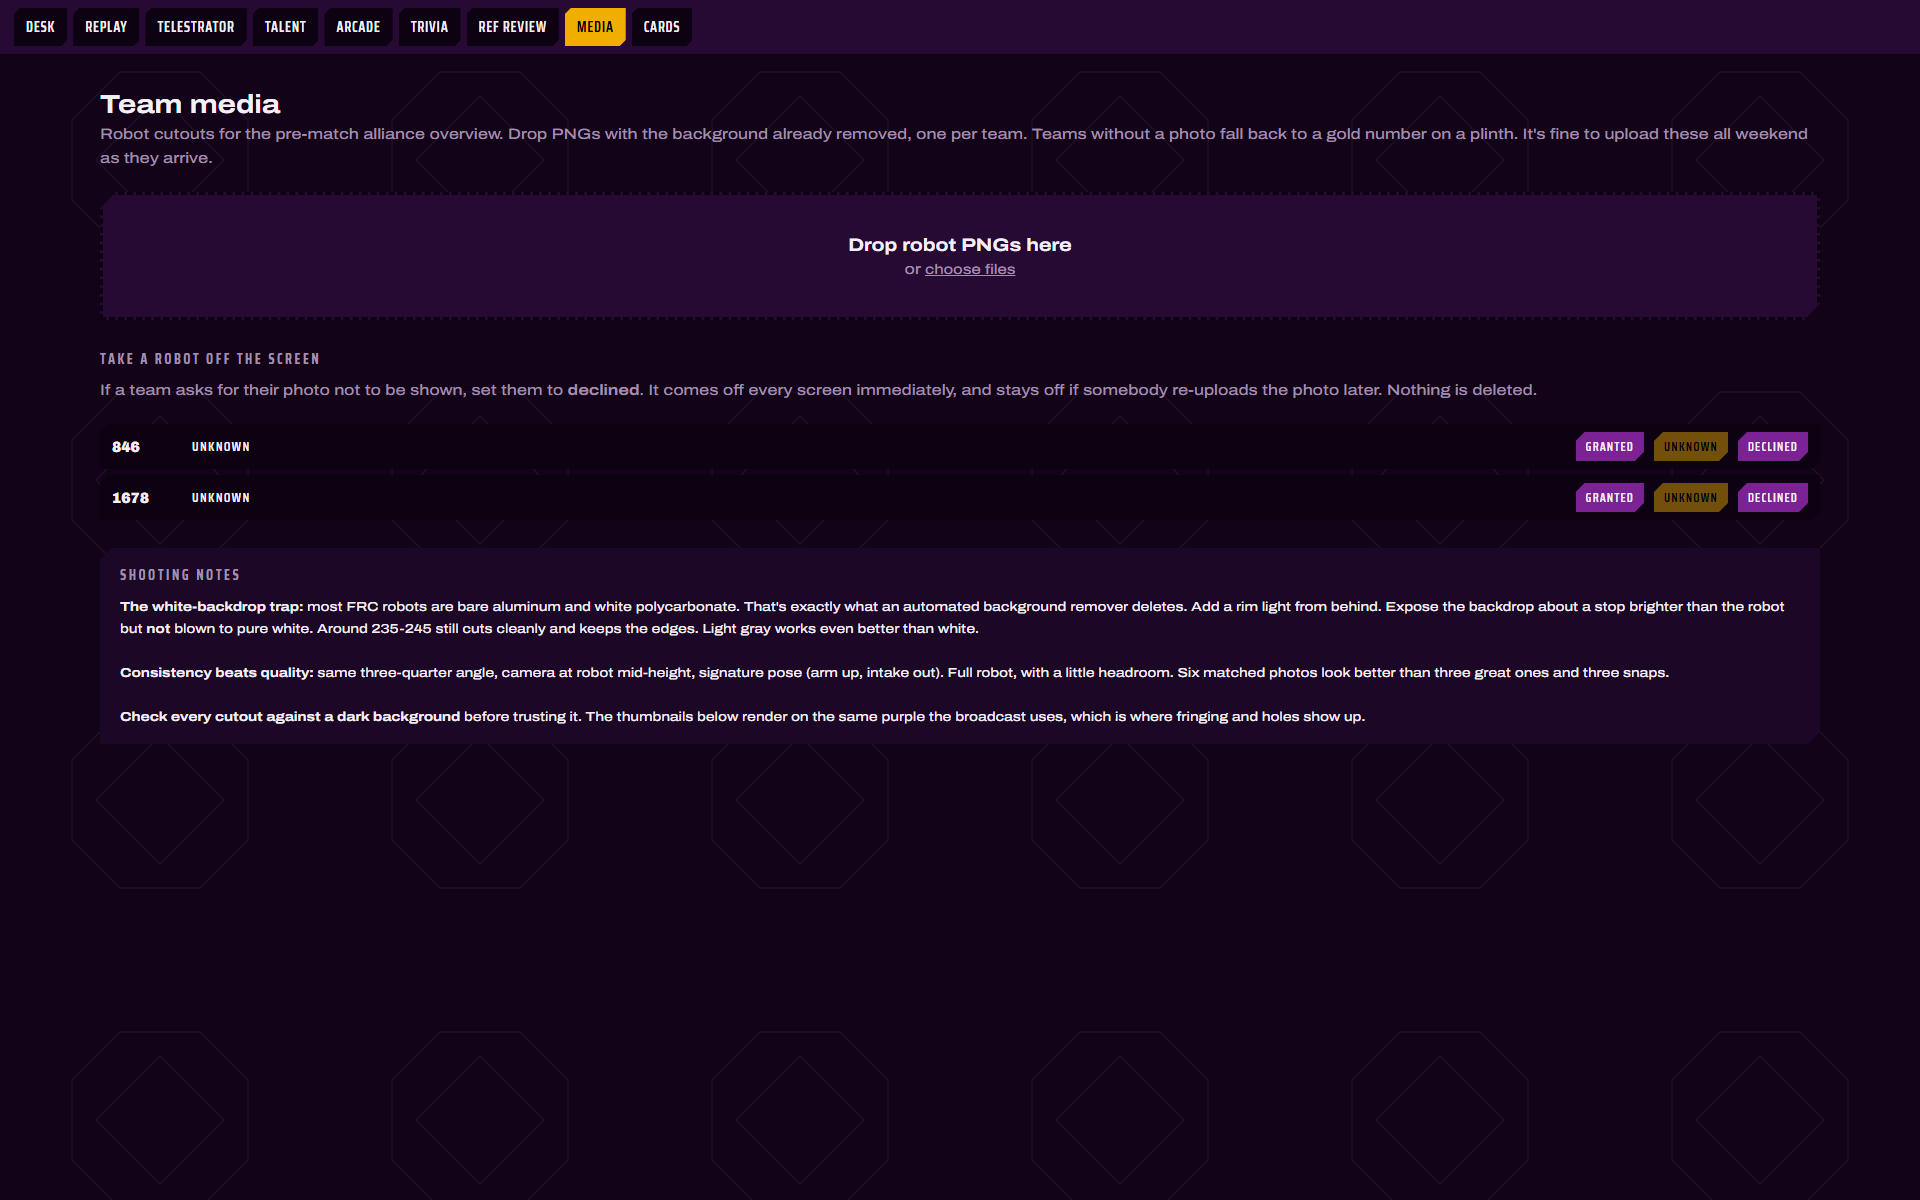
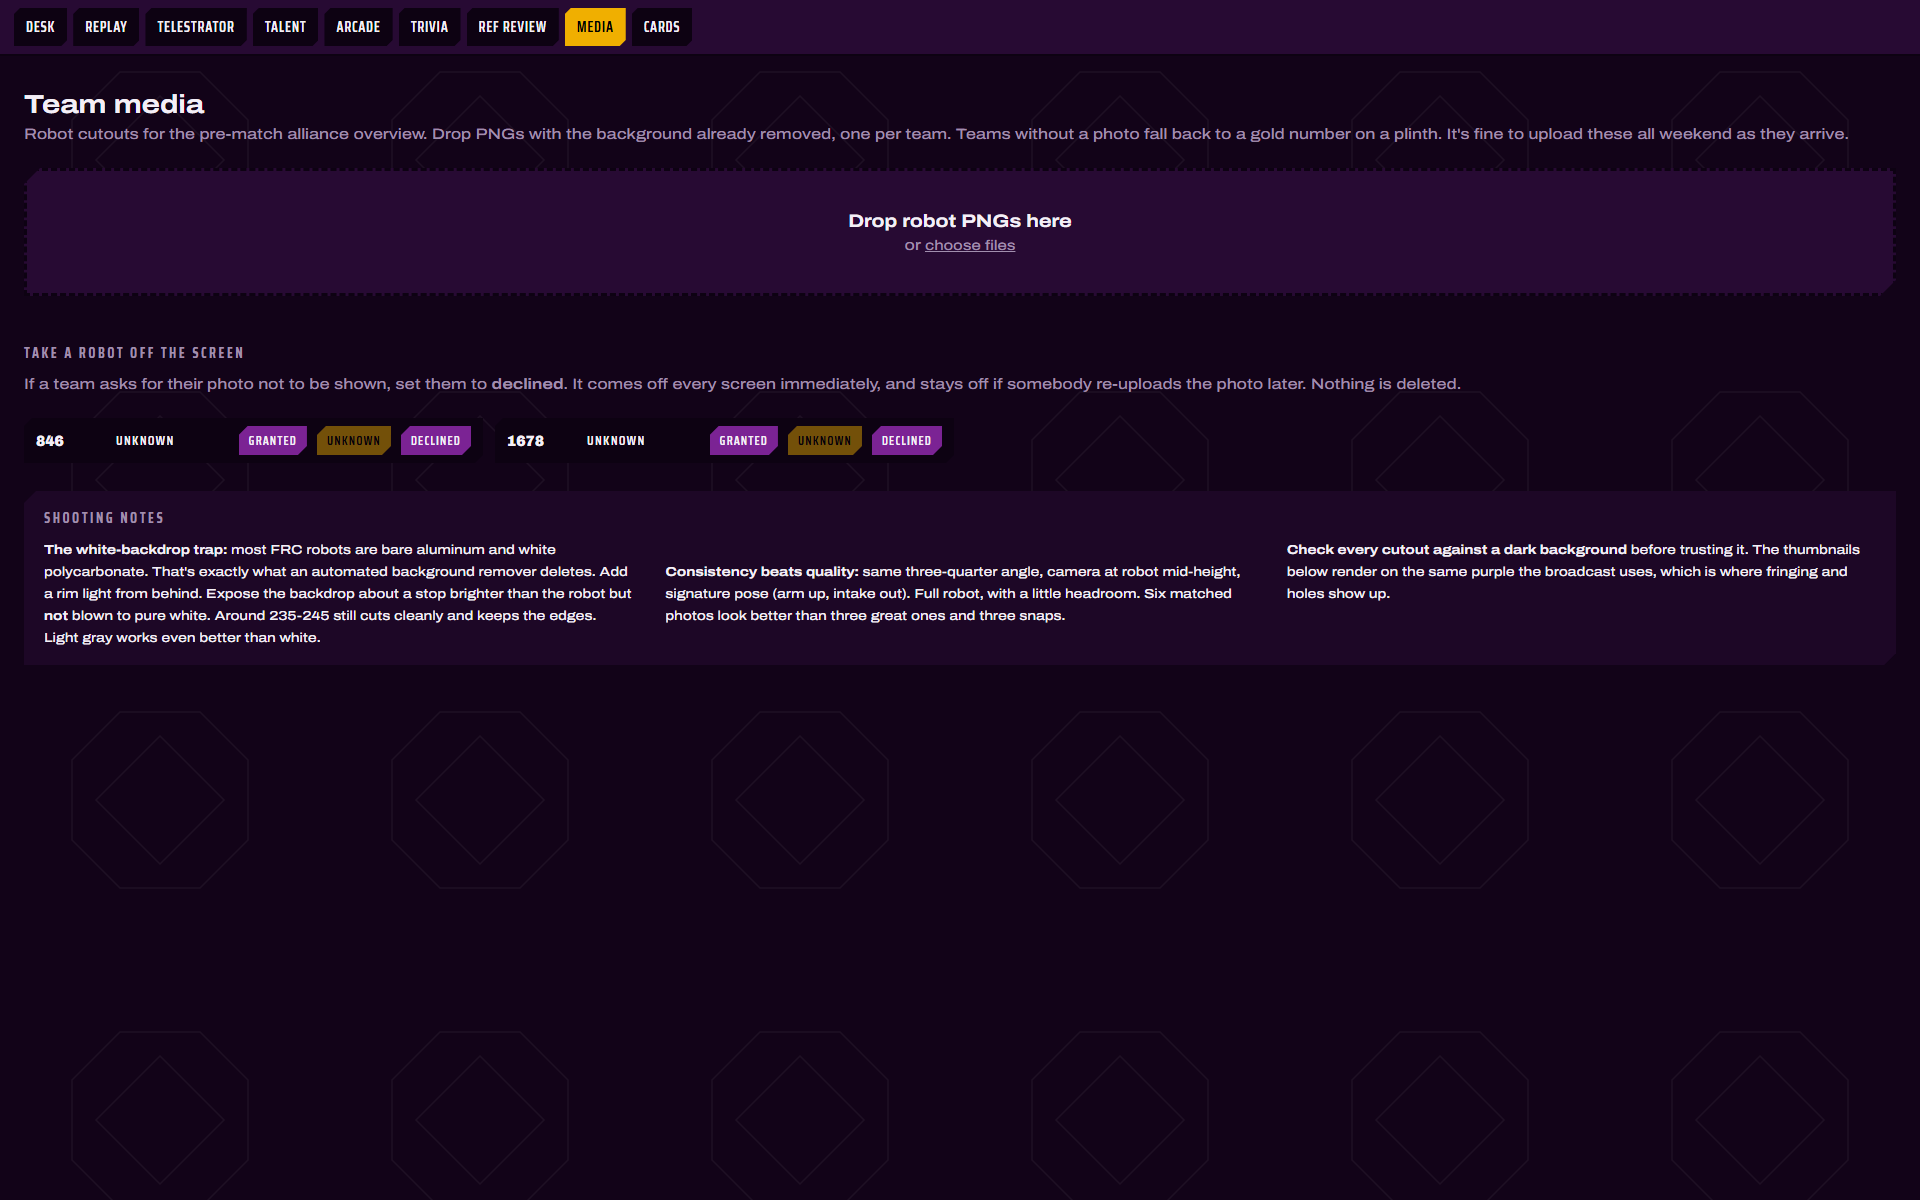
No monitor left with dead space: the index and every capped console go fluid
The landing page was one 860px column on any monitor. Its cards now tile
into as many 540px-minimum columns as the screen has, edge to edge.

The consoles that still carried width caps each get the treatment their
layout actually supports: trivia host flows its sections into 460px
multicol like the desk; arcade the same but at 620px, because five sections
across 460px columns left a fourth column standing empty on a 2400 monitor;
house audio splits its two sections half-and-half (not auto-fit — the
full-width bus plate occupies every repeated track, so empty tracks never
collapse and the sections pinned to minimum width); team media tiles its
upload queue and consent rows and pours the shooting notes into text
columns; head-referee review puts the flagged-moments list beside the
viewer so the ref looks and picks without scrolling; post-match cards caps
its square preview by monitor HEIGHT instead of width so the page can go
fluid without growing a preview taller than the screen; talent widens.

The phone and audience pages keep their narrow columns on purpose.

Verified by screenshot at 2400x1600 on all seven changed pages. 385 tests,
33 previews re-rendered.

Changed region(s): [[0.0, 0.0617, 1.0, 0.6167]]

diff --git a/surfaces/media/index.html b/surfaces/media/index.html
@@ -8,7 +8,7 @@
 <link rel="stylesheet" href="/shared/fonts.css">
 <style>
 body { font-size: var(--font-ui-body); }
-.wrap { max-width: 1720px; margin: 0 auto; padding: 20px 24px 64px; }
+.wrap { margin: 0 auto; padding: 20px 24px 64px; }
 h1 { font-size: 26px; font-variation-settings: "wdth" 118; margin: 0 0 4px; }
 p.sub { color: var(--text-dim); margin: 0 0 22px; line-height: 1.6; }
 
@@ -19,9 +19,10 @@ p.sub { color: var(--text-dim); margin: 0 0 22px; line-height: 1.6; }
 #drop b { display: block; font-size: 18px; margin-bottom: 6px; }
 #drop span { color: var(--text-dim); }
 
-.queue { margin-top: 18px; }
+.queue { margin-top: 18px; display: grid;
+  grid-template-columns: repeat(auto-fill, minmax(min(560px, 100%), 1fr)); gap: 8px 14px; }
 .item { display: grid; grid-template-columns: 96px 1fr auto; gap: 14px; align-items: center;
-  background: var(--surface-raised); padding: 12px 16px; margin-bottom: 8px;
+  background: var(--surface-raised); padding: 12px 16px;
   clip-path: var(--chamfer); --ch: 10px; }
 /* Preview against the purple the graphic actually uses. White fringing and
    punched-through polycarb are invisible on white and glaring on purple. */
@@ -45,14 +46,19 @@ input:focus { outline: none; border-color: var(--accent); }
   overflow: hidden; clip-path: inset(50%); white-space: nowrap; border: 0; }
 #drop:has(.vh:focus-visible) { outline: 3px solid var(--focus-ring); outline-offset: -8px; }
 .tips { margin-top: 28px; padding: 16px 20px; background: var(--surface);
-  clip-path: var(--chamfer); --ch: 12px; font-size: 13px; line-height: 1.7; }
+  clip-path: var(--chamfer); --ch: 12px; font-size: 13px; line-height: 1.7;
+  /* Multicol text: full-width shooting notes would be 300-character lines. */
+  column-width: 560px; column-gap: 32px; }
 .tips h2 { font-family: var(--font-cond); font-weight: 700; font-size: 14px;
-  letter-spacing: .18em; text-transform: uppercase; color: var(--text-dim); margin: 0 0 8px; }
+  letter-spacing: .18em; text-transform: uppercase; color: var(--text-dim); margin: 0 0 8px;
+  column-span: all; }
 .tips b { color: var(--text); }
 .consent { margin-top: 28px; }
 .consent h2 { font-family: var(--font-cond); font-weight: 700; font-size: 14px;
   letter-spacing: .18em; text-transform: uppercase; color: var(--text-dim); margin: 0 0 8px; }
-.crow { display: flex; align-items: center; gap: 10px; padding: 8px 12px; margin-bottom: 6px;
+#consentList { display: grid;
+  grid-template-columns: repeat(auto-fill, minmax(min(380px, 100%), 1fr)); gap: 6px 12px; }
+.crow { display: flex; align-items: center; gap: 10px; padding: 8px 12px;
   background: var(--surface-sunken); clip-path: var(--chamfer); --ch: 8px; }
 .crow b { font-family: var(--font-num); font-weight: 900; min-width: 70px; }
 .cstate { font-family: var(--font-cond); letter-spacing: .1em; text-transform: uppercase;

diff --git a/surfaces/cards/index.html b/surfaces/cards/index.html
@@ -8,7 +8,8 @@
 <link rel="stylesheet" href="/shared/fonts.css">
 <style>
 body { font-size: var(--font-ui-body); }
-.wrap { max-width: 1000px; margin: 0 auto; padding: 18px 22px 60px; }
+.wrap { margin: 0 auto; padding: 18px 22px 60px; }
+@media (max-width: 860px) { .cols { grid-template-columns: 1fr !important; } }
 header { display: flex; align-items: baseline; gap: 14px; margin-bottom: 16px; }
 h1 { font-size: 24px; font-variation-settings: "wdth" 118; margin: 0; }
 .hint { color: var(--text-dim); font-size: 14px; line-height: 1.6; }
@@ -16,14 +17,17 @@ h1 { font-size: 24px; font-variation-settings: "wdth" 118; margin: 0; }
 .dot { width: 10px; height: 10px; clip-path: var(--chamfer); --ch: 3px; background: var(--st-bad); display: inline-block; }
 .dot[data-up="true"] { background: var(--st-ok); }
 
-.cols { display: grid; grid-template-columns: 1fr 320px; gap: 18px; align-items: start; }
+.cols { display: grid; grid-template-columns: minmax(0, 2fr) minmax(320px, 1fr); gap: 18px; align-items: start; }
 section { background: var(--surface-raised); padding: 16px 18px; margin-bottom: 14px;
   clip-path: var(--chamfer); --ch: 14px; }
 h2 { font-family: var(--font-cond); font-weight: 700; font-size: 14px;
   letter-spacing: .18em; text-transform: uppercase; color: var(--text-dim); margin: 0 0 12px; }
 
 /* The card is 1080x1080; show it responsively but download at full size. */
-.preview { width: 100%; aspect-ratio: 1/1; background: var(--cg-black); clip-path: var(--chamfer); --ch: 10px; }
+/* The card is a 1080 square: cap it by the monitor's HEIGHT, not its width,
+   so a wide screen never grows a preview taller than the screen itself. */
+.preview { width: min(100%, 74vh); margin: 0 auto; aspect-ratio: 1/1;
+  background: var(--cg-black); clip-path: var(--chamfer); --ch: 10px; }
 .preview canvas { width: 100%; height: 100%; display: block; }
 
 .row { display: flex; flex-wrap: wrap; gap: 8px; align-items: center; }

diff --git a/apps/core/src/server.ts b/apps/core/src/server.ts
@@ -1705,21 +1705,22 @@ export function startServer(opts: ServerOpts) {
   function sendIndex(res: ServerResponse): void {
     const groups = [...new Set(SURFACES.map(s => s.group))];
     const sections = groups.map(g =>
-      `<h2>${g}</h2>` + SURFACES.filter(s => s.group === g).map(s =>
+      `<h2>${g}</h2><div class="rows">` + SURFACES.filter(s => s.group === g).map(s =>
         `<a class="row" href="${surfacePath(s)}"><b>${s.name}</b><code>${surfacePath(s)}</code><i>${s.note}</i></a>`,
-      ).join('')).join('');
+      ).join('') + '</div>').join('');
     const html = `<!doctype html><html lang="en" data-surface="console"><head><meta charset="utf-8">
 <title>CalGames 2026 Content Desk</title>
 <link rel="stylesheet" href="/theme/tokens.css">
 <link rel="stylesheet" href="/shared/fonts.css">
 <style>
-body{padding:48px;max-width:860px;margin:0 auto;font-size:var(--font-ui-body)}
+body{padding:44px clamp(28px,4vw,84px) 80px;font-size:var(--font-ui-body)}
 h1{font-size:38px;font-variation-settings:"wdth" 118;margin:0 0 4px}
 p.sub{color:var(--text-dim);margin:0 0 26px}
 h2{font-family:var(--font-cond);font-weight:700;font-size:13px;letter-spacing:.2em;
   text-transform:uppercase;color:var(--accent);margin:30px 0 10px}
+.rows{display:grid;grid-template-columns:repeat(auto-fill,minmax(min(540px,100%),1fr));gap:10px 14px}
 .row{display:grid;grid-template-columns:1fr auto;gap:4px 16px;padding:16px 20px;
-  margin-bottom:10px;background:var(--surface-raised);text-decoration:none;color:var(--text);
+  background:var(--surface-raised);text-decoration:none;color:var(--text);
   clip-path:var(--chamfer);--ch:12px;transition:background var(--dur-tap) linear}
 .row:hover{background:var(--btn-hover)}
 .row:focus-visible{outline:3px solid var(--focus-ring)}

diff --git a/surfaces/var/index.html b/surfaces/var/index.html
@@ -20,7 +20,15 @@
  * Frame stepping is a server round trip per frame (ffmpeg seek plus a jpeg),
  * so expect a beat between presses. That is still faster than the argument. */
 body { font-size: 16px; }
-.wrap { max-width: 1180px; margin: 0 auto; padding: 16px 20px 50px; }
+.wrap { margin: 0 auto; padding: 16px 20px 50px; }
+/* A wide monitor puts the flagged-moments list NEXT TO the viewer: the ref
+   looks and picks without scrolling between them. */
+@media (min-width: 1500px) {
+  .wrap { display: grid; grid-template-columns: minmax(0, 1.5fr) minmax(420px, 1fr);
+    gap: 0 18px; align-items: start; }
+  .wrap > header, .wrap > .readonly { grid-column: 1 / -1; }
+  .marks { max-height: 62vh; }
+}
 header { display: flex; align-items: baseline; gap: 14px; margin-bottom: 10px; flex-wrap: wrap; }
 h1 { font-size: 24px; font-variation-settings: "wdth" 118; margin: 0; }
 .hint { color: var(--text-dim); font-size: 14px; line-height: 1.6; }

diff --git a/surfaces/arcadedesk/index.html b/surfaces/arcadedesk/index.html
@@ -8,7 +8,16 @@
 <link rel="stylesheet" href="/shared/fonts.css">
 <style>
 body { font-size: var(--font-ui-body); }
-.wrap { max-width: 1720px; margin: 0 auto; padding: 18px 22px 60px; }
+.wrap { margin: 0 auto; padding: 18px 22px 60px; }
+/* Column WIDTH, not page width: sections flow into as many 460px columns as
+   the monitor actually has — the same rule as the desk console. */
+@media (min-width: 1150px) {
+  /* 620, not the desk's 460: this page has five sections, and 460 makes four
+     columns on a 2400 monitor with nothing left for the fourth. */
+  .wrap { columns: 620px; column-gap: 18px; }
+  .wrap > section { break-inside: avoid; }
+  .wrap > header { column-span: all; }
+}
 header { display: flex; align-items: baseline; gap: 14px; margin-bottom: 14px; }
 h1 { font-size: 24px; font-variation-settings: "wdth" 118; margin: 0; }
 .hint { color: var(--text-dim); font-size: 14px; line-height: 1.6; }

diff --git a/surfaces/house/index.html b/surfaces/house/index.html
@@ -8,7 +8,14 @@
 <link rel="stylesheet" href="/shared/fonts.css">
 <style>
 body { font-size: var(--font-ui-body); }
-.wrap { max-width: 900px; margin: 0 auto; padding: 18px 22px 60px; }
+.wrap { margin: 0 auto; padding: 18px 22px 60px; }
+/* Two sections, two halves. Not auto-fit: the full-width header and bus
+   plate occupy every repeated track, so empty tracks never collapse and the
+   sections pin to their minimum instead of stretching. */
+@media (min-width: 1150px) {
+  .wrap { display: grid; grid-template-columns: 1fr 1fr; gap: 0 18px; align-items: start; }
+  .wrap > header, .wrap > .bus { grid-column: 1 / -1; }
+}
 header { display: flex; align-items: baseline; gap: 14px; margin-bottom: 14px; }
 h1 { font-size: 24px; font-variation-settings: "wdth" 118; margin: 0; }
 .spacer { margin-left: auto; }

diff --git a/surfaces/triviadesk/index.html b/surfaces/triviadesk/index.html
@@ -8,7 +8,14 @@
 <link rel="stylesheet" href="/shared/fonts.css">
 <style>
 body { font-size: var(--font-ui-body); }
-.wrap { max-width: 1720px; margin: 0 auto; padding: 18px 22px 60px; }
+.wrap { margin: 0 auto; padding: 18px 22px 60px; }
+/* Column WIDTH, not page width: sections flow into as many 460px columns as
+   the monitor actually has — the same rule as the desk console. */
+@media (min-width: 1150px) {
+  .wrap { columns: 460px; column-gap: 18px; }
+  .wrap > section { break-inside: avoid; }
+  .wrap > header { column-span: all; }
+}
 header { display: flex; align-items: baseline; gap: 14px; margin-bottom: 14px; }
 h1 { font-size: 24px; font-variation-settings: "wdth" 118; margin: 0; }
 .hint { color: var(--text-dim); font-size: 14px; line-height: 1.6; }

diff --git a/surfaces/talent/index.html b/surfaces/talent/index.html
@@ -16,7 +16,7 @@
    Pronunciation and fact notes live in THIS device's localStorage. The GA
    types them once during Friday practice and they persist all weekend. */
 body { font-size: 16px; }
-.wrap { max-width: 1240px; margin: 0 auto; padding: 18px 22px 60px; }
+.wrap { max-width: 1720px; margin: 0 auto; padding: 18px 22px 60px; }
 header { display: flex; align-items: baseline; gap: 14px; margin-bottom: 14px; }
 h1 { font-size: 26px; font-variation-settings: "wdth" 118; margin: 0; }
 .hint { color: var(--text-dim); font-size: 14px; line-height: 1.6; }
